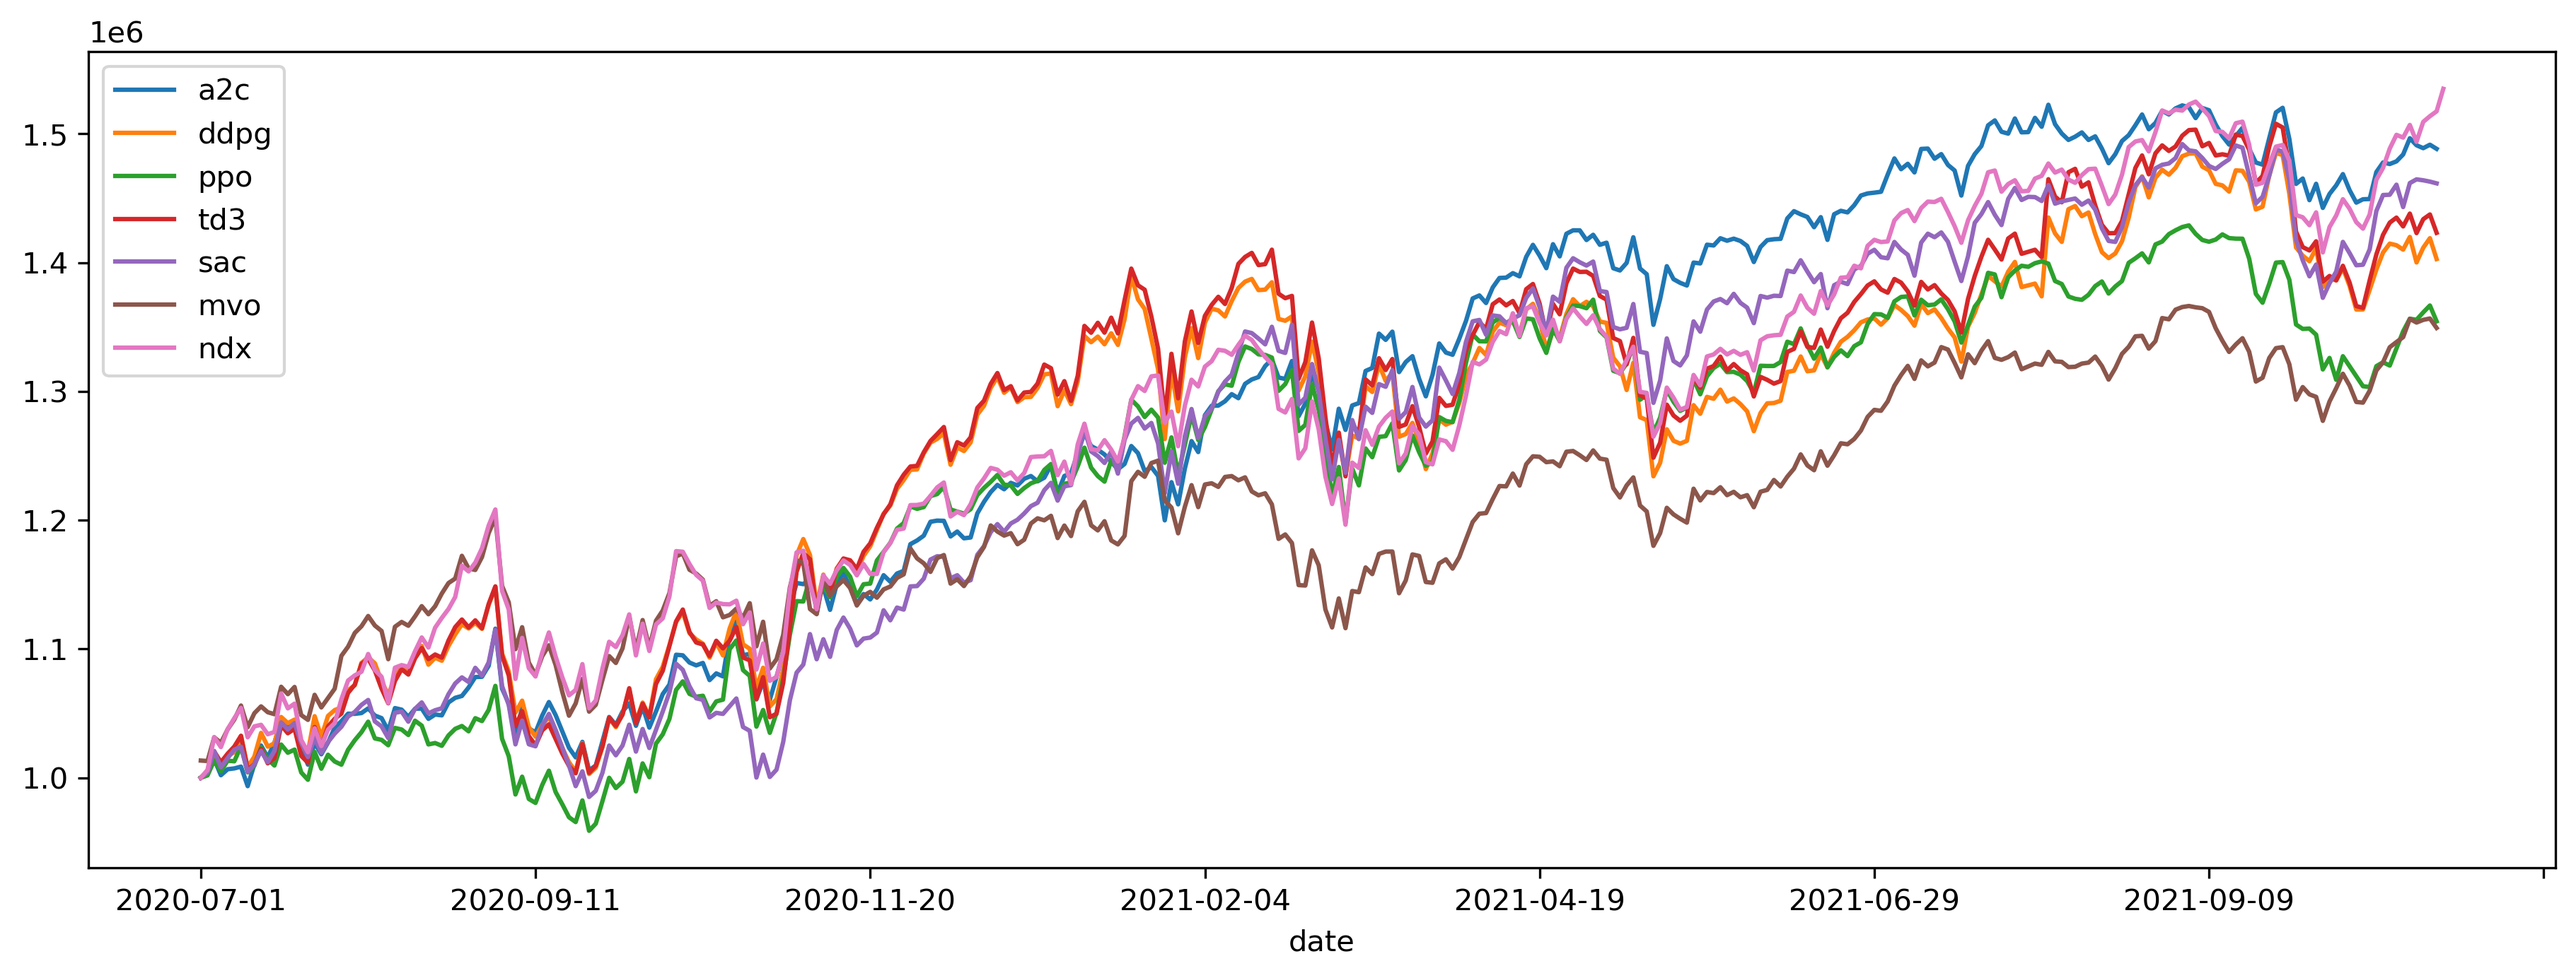
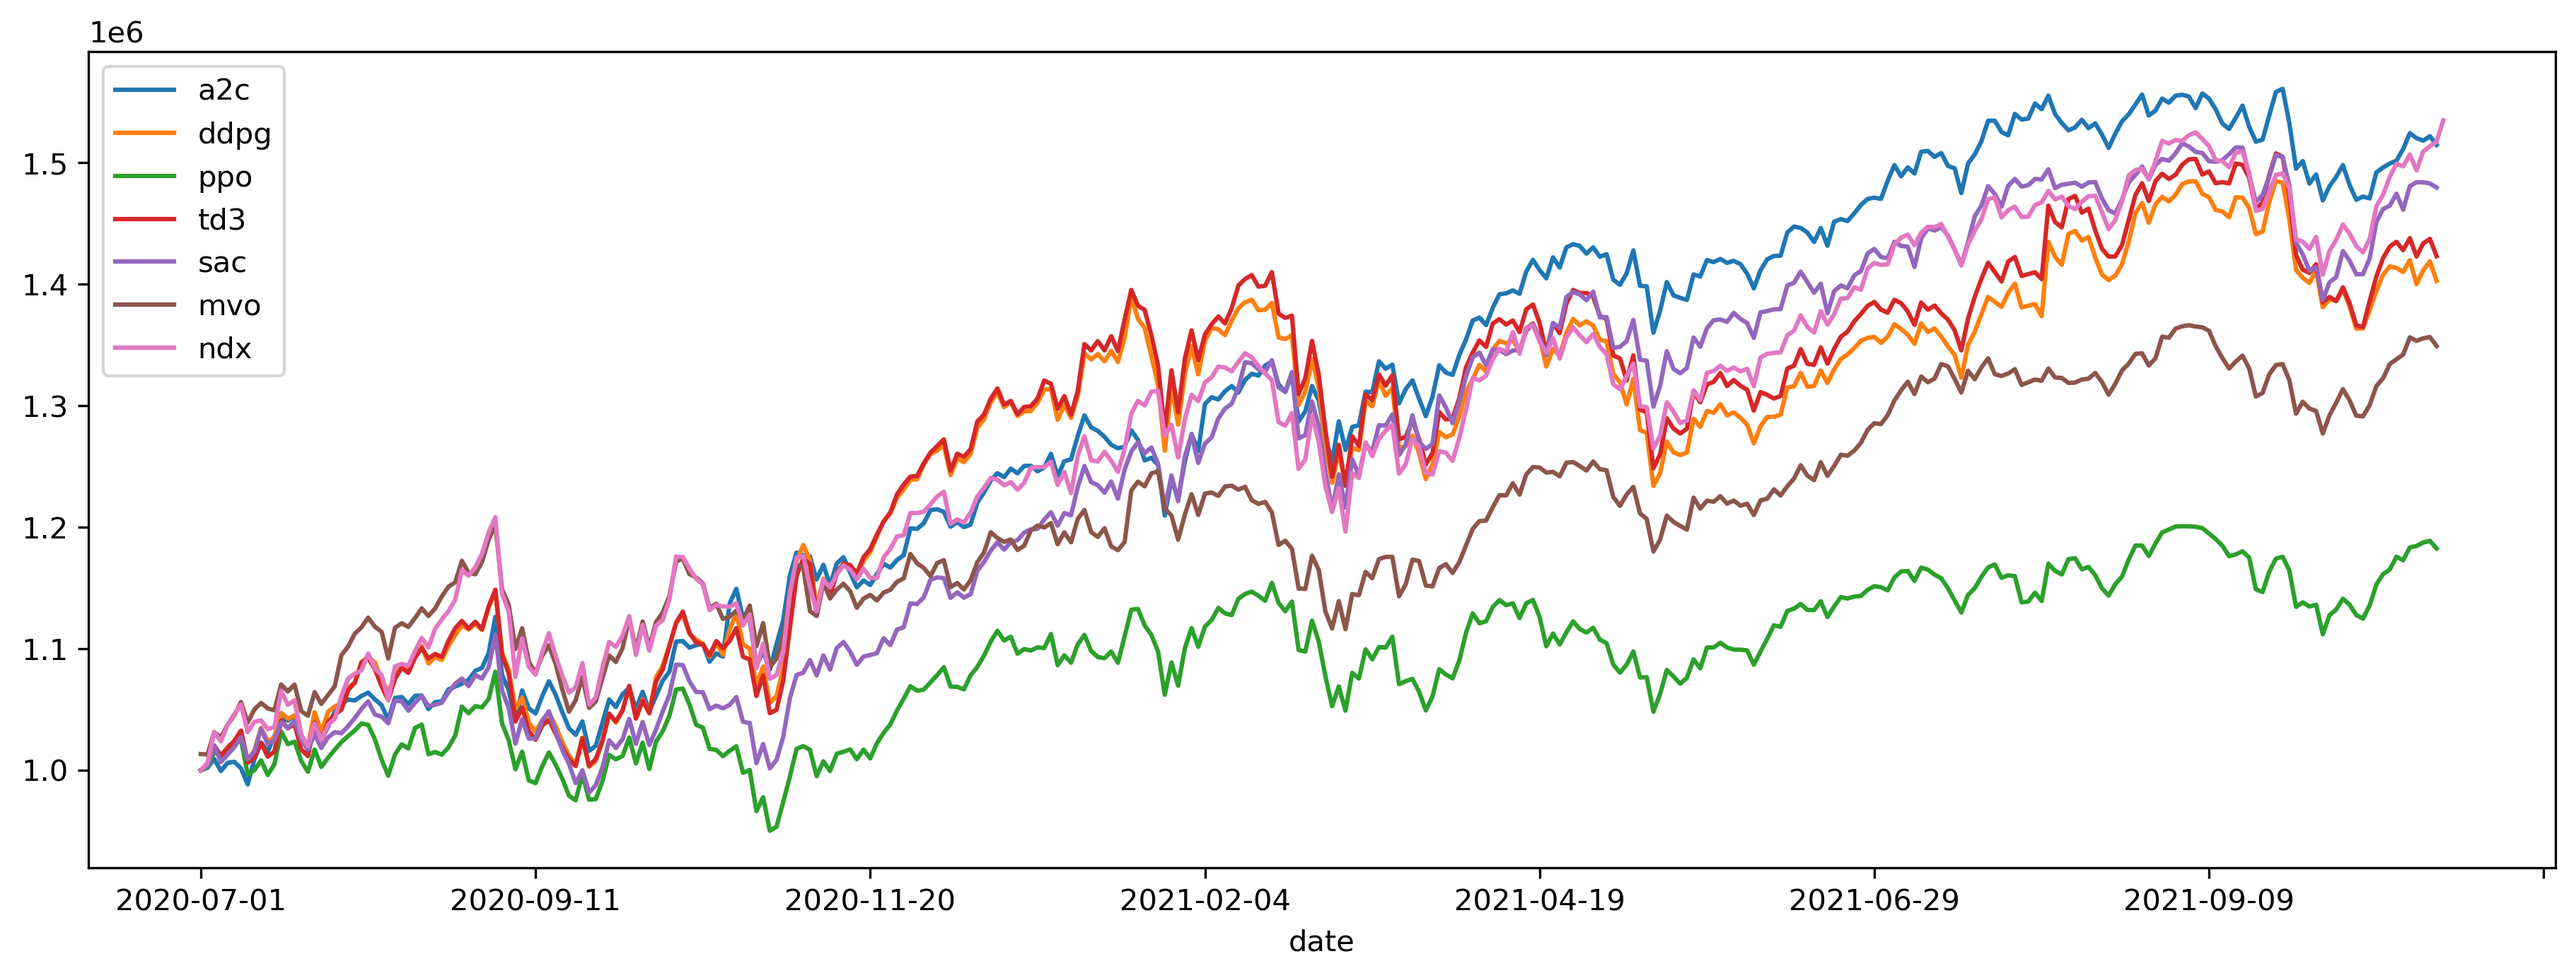
可訓練模型

diff --git a/main.py b/main.py
@@ -5,15 +5,19 @@ This source code is licensed under the CC BY-NC license found in the
 LICENSE.md file in the root directory of this source tree.
 """
 
+from gymnasium.envs.registration import register
+
 from torch.utils.tensorboard import SummaryWriter
 import argparse
 import pickle
 import random
 import time
-import gym
-import d4rl
+# import gym
+import gymnasium as gym
+# import d4rl
 import torch
 import numpy as np
+import pandas as pd
 
 import utils
 from replay_buffer import ReplayBuffer
@@ -26,7 +30,49 @@ from evaluation import create_vec_eval_episodes_fn, vec_evaluate_episode_rtg
 from trainer import SequenceTrainer
 from logger import Logger
 
+from finrl.meta.env_stock_trading.env_stocktrading import StockTradingEnv
+from finrl.config import INDICATORS
+
 MAX_EPISODE_LEN = 1000
+
+
+train = pd.read_csv('./evan/train_data.csv')
+train = train.set_index(train.columns[0])
+train.index.names = ['']
+stock_dimension = len(train.tic.unique())
+state_space = 1 + 2 * stock_dimension + len(INDICATORS) * stock_dimension
+print(f"Stock Dimension: {stock_dimension}, State Space: {state_space}")
+
+buy_cost_list = sell_cost_list = [0.001] * stock_dimension
+num_stock_shares = [0] * stock_dimension
+env_kwargs = {
+    "hmax": 100,
+    "initial_amount": 1000000,
+    "num_stock_shares": num_stock_shares,
+    "buy_cost_pct": buy_cost_list,
+    "sell_cost_pct": sell_cost_list,
+    "state_space": state_space,
+    "stock_dim": stock_dimension,
+    "tech_indicator_list": INDICATORS,
+    "action_space": stock_dimension,
+    "reward_scaling": 1e-4
+}
+
+# 定義工廠函數
+def make_stock_trading_env(**kwargs):
+    return StockTradingEnv(
+        df=train,
+        turbulence_threshold=70,
+        risk_indicator_col='vix',
+        **env_kwargs,
+        **kwargs,  # 支援 gym.make 傳進來的額外參數
+    )
+
+# 註冊環境
+register(
+    id='trajectories_sac-v0',
+    entry_point=make_stock_trading_env,
+)
 
 
 class Experiment:
@@ -387,38 +433,53 @@ class Experiment:
 
         utils.set_seed_everywhere(args.seed)
 
-        import d4rl
+        # import d4rl
 
         def loss_fn(
             a_hat_dist,
             a,
             attention_mask,
             entropy_reg,
+            sentiments,
+            sentiment_weight=0.1,
         ):
             # a_hat is a SquashedNormal Distribution
-            log_likelihood = a_hat_dist.log_likelihood(a)[attention_mask > 0].mean()
-
+            log_likelihood = a_hat_dist.log_likelihood(a)  # shape: (B, T)
             entropy = a_hat_dist.entropy().mean()
-            loss = -(log_likelihood + entropy_reg * entropy)
 
-            return (
-                loss,
-                -log_likelihood,
-                entropy,
-            )
+            # 將 [pos, neg, neu] 壓成 scalar，加權情緒評分
+            # sentiments: shape (B, T, tick, 3)
+            weights = torch.tensor([1.0, -1.0, 0.0], dtype=sentiments.dtype, device=sentiments.device)  # shape: (3,)
+            sentiment_score_per_tick = torch.sum(sentiments * weights, dim=-1)  # shape: (B, T, tick)
+            sentiment_score = sentiment_score_per_tick.mean(dim=-1)  # shape: (B, T)
+            sentiment_score = sentiment_score.to(log_likelihood.device)
+
+
+            # 產生 mask，過濾掉 padding
+            sentiment_mask = attention_mask > 0
+
+            # 損失項：鼓勵在正向情緒高時，行動機率高（log_prob 大）
+            sentiment_loss = -(log_likelihood * sentiment_score)[sentiment_mask].mean()
+
+            # 原始 loss: log_likelihood + entropy 正則
+            ll_term = log_likelihood[sentiment_mask].mean()
+            loss = -(ll_term + entropy_reg * entropy) + sentiment_weight * sentiment_loss
+
+            return loss, -ll_term, entropy
 
         def get_env_builder(seed, env_name, target_goal=None):
             def make_env_fn():
-                import d4rl
+                # import d4rl
 
                 env = gym.make(env_name)
-                env.seed(seed)
-                if hasattr(env.env, "wrapped_env"):
-                    env.env.wrapped_env.seed(seed)
-                elif hasattr(env.env, "seed"):
-                    env.env.seed(seed)
-                else:
-                    pass
+                # env.seed(seed)
+                # if hasattr(env.env, "wrapped_env"):
+                #     env.env.wrapped_env.seed(seed)
+                # elif hasattr(env.env, "seed"):
+                #     env.env.seed(seed)
+                # else:
+                #     pass
+                env.reset(seed=seed)
                 env.action_space.seed(seed)
                 env.observation_space.seed(seed)
 

diff --git a/data.py b/data.py
@@ -80,6 +80,8 @@ class TransformSamplingSubTraj:
         else:
             dd = traj["dones"][si : si + self.max_len]  # .reshape(-1)
 
+        se = traj["sentiments"][si : si + self.max_len]
+
         # get the total length of a trajectory
         tlen = ss.shape[0]
 
@@ -113,7 +115,22 @@ class TransformSamplingSubTraj:
         timesteps = np.concatenate([np.zeros((self.max_len - tlen)), timesteps])
         ordering = np.concatenate([np.zeros((self.max_len - tlen)), ordering])
         padding_mask = np.concatenate([np.zeros(self.max_len - tlen), np.ones(tlen)])
+        
+        # for i, item in enumerate(se):
+        #     print(f"se[{i}].shape: {item.shape}")
+        # # sentiment padding
+        # se = np.concatenate([
+        #     np.zeros((self.max_len - tlen, self.state_dim, 3)),  # padding
+        #     se
+        # ])
 
+        # padding for sentiment
+        if len(se.shape) == 3:
+            padding_shape = (self.max_len - tlen,) + se.shape[1:]  # e.g., (padding_len, 78, 3)
+        else:
+            raise ValueError(f"Unexpected sentiment shape: {se.shape}")
+
+        se = np.concatenate([np.zeros(padding_shape), se], axis=0)
         ss = torch.from_numpy(ss).to(dtype=torch.float32)
         aa = torch.from_numpy(aa).to(dtype=torch.float32).clamp(*self.action_range)
         rr = torch.from_numpy(rr).to(dtype=torch.float32)
@@ -123,7 +140,10 @@ class TransformSamplingSubTraj:
         ordering = torch.from_numpy(ordering).to(dtype=torch.long)
         padding_mask = torch.from_numpy(padding_mask)
 
-        return ss, aa, rr, dd, rtg, timesteps, ordering, padding_mask
+        se = torch.from_numpy(se).to(dtype=torch.float32)
+
+
+        return ss, aa, rr, dd, rtg, timesteps, ordering, padding_mask, se
 
 
 def create_dataloader(

diff --git a/evan/finrl_stock_bt.py b/evan/finrl_stock_bt.py
@@ -3,6 +3,7 @@ import os
 import matplotlib.pyplot as plt
 import numpy as np
 import pandas as pd
+import pickle
 from stable_baselines3 import A2C, DDPG, PPO, SAC, TD3
 
 sys.path.append(os.path.abspath(".."))
@@ -55,6 +56,7 @@ env_kwargs = {
     "reward_scaling": 1e-4
 }
 
+
 e_trade_gym = StockTradingEnv(df = trade, turbulence_threshold = 70,risk_indicator_col='vix', **env_kwargs)
 # env_trade, obs_trade = e_trade_gym.get_sb_env()
 
@@ -78,11 +80,29 @@ df_account_value_sac, df_actions_sac, trajectories_sac = DRLAgent.DRL_prediction
     model=trained_sac, 
     environment = e_trade_gym, deterministic=False) if if_using_sac else (None, None)
 
-df = pd.DataFrame(trajectories_sac)
-df.to_pickle("../data/trajectories_sac.pkl")
+# df = pd.DataFrame(trajectories_sac)
+# df.to_pickle("../data/trajectories_sac.pkl")
+#
+# df = pd.DataFrame(trajectories_ppo)
+# df.to_pickle("../data/trajectories_ppo.pkl")
 
-df = pd.DataFrame(trajectories_ppo)
-df.to_pickle("../data/trajectories_ppo.pkl")
+print(type(trajectories_sac))
+print(list(trajectories_sac.keys()))
+
+
+trajectories_sac = [{
+    k: np.array(v).reshape(-1) if k in ["dones", "terminals"] else np.array(v)
+    for k, v in trajectories_sac.items()
+}]
+with open("../data/trajectories_sac-v0.pkl", "wb") as f:
+    pickle.dump(trajectories_sac, f)
+
+trajectories_ppo = [{
+    k: np.array(v).reshape(-1) if k in ["dones", "terminals"] else np.array(v)
+    for k, v in trajectories_ppo.items()
+}]
+with open("../data/trajectories_ppo-v0.pkl", "wb") as f:
+    pickle.dump(trajectories_ppo, f)
 
 def process_df_for_mvo(df):
     return df.pivot(index="date", columns="tic", values="close")

diff --git a/finrl/agents/stablebaselines3/models.py b/finrl/agents/stablebaselines3/models.py
@@ -144,10 +144,10 @@ class DRLAgent:
         trajectories = {}
         trajectories["observations"] = []
         trajectories["next_observations"] = []
-        trajectories["action"] = []
+        trajectories["actions"] = []
         trajectories["rewards"] = []
         trajectories["dones"] = []
-        trajectories["sentiment"] = []
+        trajectories["sentiments"] = []
 
         for i in range(len(environment.df.index.unique())):
             action, _states = model.predict(test_obs, deterministic=deterministic)
@@ -156,13 +156,17 @@ class DRLAgent:
             trajectories["observations"].append(np.array(test_obs).flatten().tolist())
             test_obs, rewards, dones, info = test_env.step(action)
             trajectories["next_observations"].append(np.array(test_obs).flatten().tolist())
-            trajectories["action"].append(np.array(action).flatten().tolist())
+            trajectories["actions"].append(np.array(action).flatten().tolist())
             trajectories["rewards"].append(np.array(rewards).flatten().tolist())
             trajectories["dones"].append(np.array(dones).flatten().tolist())
 
             current_date = pd.to_datetime(info[0]["datetime"]).strftime('%Y-%m-%d')
-            sentiment = sentiment_lookup.get(current_date, [-1] * 3)
-            trajectories["sentiment"].append(sentiment)
+            sentiment = sentiment_lookup.get(
+                current_date,
+                np.full((environment.stock_dim, 3), -1.0)  # fallback: (state_dim, 3)
+            )
+            trajectories["sentiments"].append(sentiment.tolist())
+
 
             if (
                 i == max_steps - 1

diff --git a/decision_transformer/models/trajectory_gpt2.py b/decision_transformer/models/trajectory_gpt2.py
@@ -26,7 +26,6 @@ from torch.nn import CrossEntropyLoss, MSELoss
 from transformers.activations import ACT2FN
 from transformers.file_utils import (
     ModelOutput,
-    add_code_sample_docstrings,
     add_start_docstrings,
     add_start_docstrings_to_model_forward,
     replace_return_docstrings,
@@ -520,7 +519,7 @@ class GPT2Model(GPT2PreTrainedModel):
         self.wte = nn.Embedding(config.vocab_size, config.n_embd)
         # self.wpe = nn.Embedding(config.n_positions, config.n_embd)
         self.drop = nn.Dropout(config.embd_pdrop)
-        self.h = nn.ModuleList([Block(config.n_ctx, config, scale=True) for _ in range(config.n_layer)])
+        self.h = nn.ModuleList([Block(config.n_positions, config, scale=True) for _ in range(config.n_layer)])
         self.ln_f = nn.LayerNorm(config.n_embd, eps=config.layer_norm_epsilon)
 
         self.init_weights()
@@ -583,12 +582,12 @@ class GPT2Model(GPT2PreTrainedModel):
             self.h[layer].attn.prune_heads(heads)
 
     @add_start_docstrings_to_model_forward(GPT2_INPUTS_DOCSTRING)
-    @add_code_sample_docstrings(
-        tokenizer_class=_TOKENIZER_FOR_DOC,
-        checkpoint="gpt2",
-        output_type=BaseModelOutputWithPastAndCrossAttentions,
-        config_class=_CONFIG_FOR_DOC,
-    )
+    # @add_code_sample_docstrings(
+    #     tokenizer_class=_TOKENIZER_FOR_DOC,
+    #     checkpoint="gpt2",
+    #     output_type=BaseModelOutputWithPastAndCrossAttentions,
+    #     config_class=_CONFIG_FOR_DOC,
+    # )
     def forward(
             self,
             input_ids=None,

diff --git a/finrl/meta/env_stock_trading/env_stocktrading.py b/finrl/meta/env_stock_trading/env_stocktrading.py
@@ -365,6 +365,9 @@ class StockTradingEnv(gym.Env):
         seed=None,
         options=None,
     ):
+        if seed is not None:
+            self.np_random, _ = gym.utils.seeding.np_random(seed)
+
         # initiate state
         self.day = 0
         self.data = self.df.loc[self.day, :]
@@ -398,7 +401,8 @@ class StockTradingEnv(gym.Env):
 
         self.episode += 1
 
-        return self.state, {}
+        # return self.state, {}
+        return np.array(self.state, dtype=np.float32), {}
 
     def render(self, mode="human", close=False):
         return self.state
@@ -552,6 +556,10 @@ class StockTradingEnv(gym.Env):
 
     def _seed(self, seed=None):
         self.np_random, seed = seeding.np_random(seed)
+        return [seed]
+
+    def seed(self, seed=None):
+        self.np_random, seed = gym.utils.seeding.np_random(seed)
         return [seed]
 
     def get_sb_env(self):

diff --git a/check/checkpkl.py b/check/checkpkl.py
@@ -1,0 +1,18 @@
+import pickle
+import pprint
+import numpy as np
+
+
+# 替換成你的 .pkl 檔案路徑
+# file_path = rf"data/ant-expert-v2.pkl"
+# file_path = rf"data/agent_sac.pkl"
+file_path = rf"../data/trajectories_ppo.pkl"
+file_path_1 = rf"../data/trajectories_ppo-v0.pkl"
+
+# 開啟並讀取 .pkl 檔案
+with open(file_path, "rb") as file:
+    data = pickle.load(file)
+with open(file_path_1, "rb") as file:
+    data1 = pickle.load(file)
+print(data[0]["observations"])
+print(data1[0]["observations"])

diff --git a/trainer.py b/trainer.py
@@ -62,6 +62,7 @@ class SequenceTrainer:
             timesteps,
             ordering,
             padding_mask,
+            sentiments,
         ) = trajs
 
         states = states.to(self.device)
@@ -90,6 +91,7 @@ class SequenceTrainer:
             action_target,
             padding_mask,
             self.model.temperature().detach(),  # no gradient taken here
+            sentiments,
         )
         self.optimizer.zero_grad()
         loss.backward()
